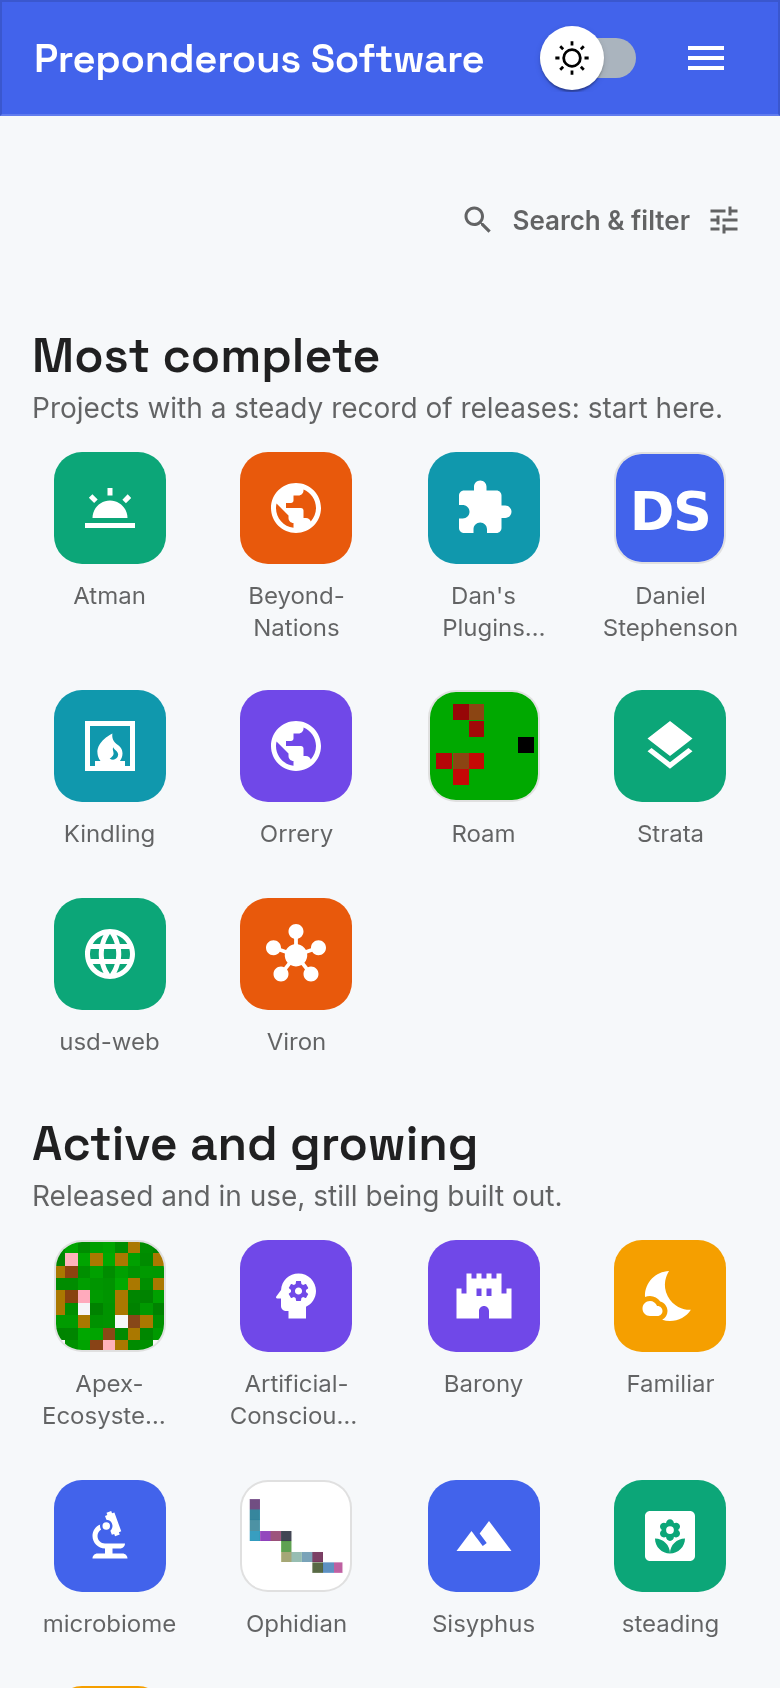
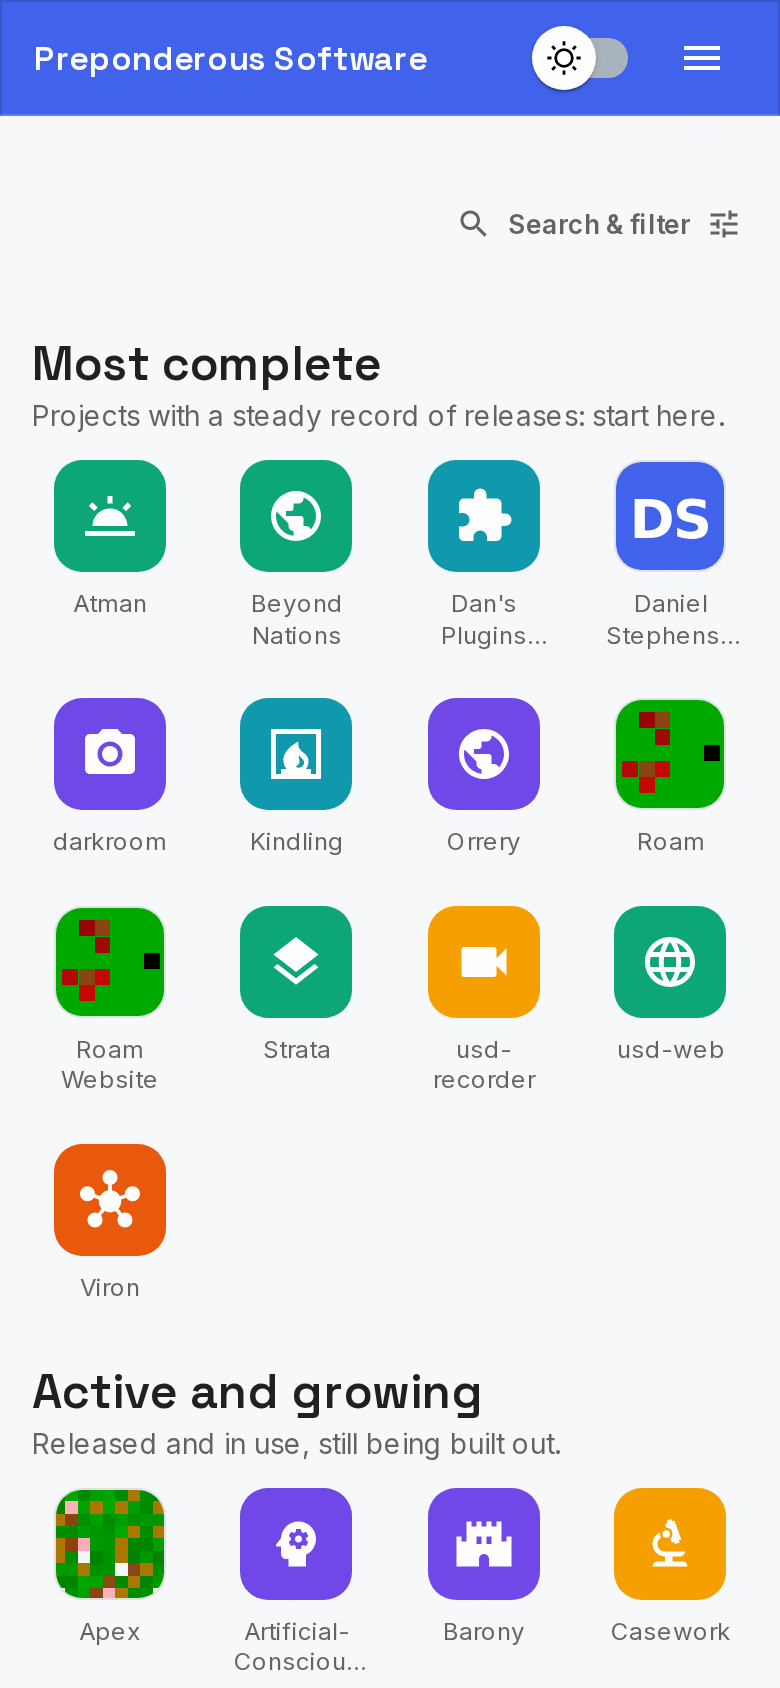
docs: a screenshot tour of the site in the README and USER_GUIDE (#218)
The README gains "A tour of the site": home, a project's details with
its 3D preview, /projects, /usage, /about and the 404 page, each in
light and dark mode, with phone shots beside the desktop ones and a
short caption under each. USER_GUIDE.md gets a screenshot next to each
feature it describes (details panel and bottom sheet, search and
filters, project cards, the usage line and /usage, the phone drawer,
the colour-mode toggle, /contact). The two existing home images are
refreshed for the current catalogue of 44 projects.

All shots were taken with headless Chromium from a local production
build of main, at 1280x800 (1x) and 390x844 (2x), and quantised to
256 colours; the largest is 158 KB. trace's public endpoints were not
answering at capture time, so the usage figures come from a local stub
(TRACE_PUBLIC_URL), and every caption showing them says they are
sample figures. CONFIG.md now notes that a preview's clip is optional,
as six of the thirteen previews are stills only.

drafted by Claude on behalf of Daniel Stephenson

Claude-Session: https://claude.ai/code/session_01LYNeun4MTdQwEKgQzkS6Dd

diff --git a/README.md b/README.md
@@ -5,12 +5,93 @@
 The Preponderous Software website is a [Next.js](https://nextjs.org/) web application that serves as the public face of Preponderous Software. It showcases the projects — free, source-available games, simulations, libraries, tools, and websites — and links out to their source on GitHub. Built with React and [Material UI](https://mui.com/), it mirrors the structure of the [Dan's Plugins Community website](https://github.com/Dans-Plugins/dansplugins-dot-com).
 
 <p align="center">
-  <img src="docs/images/home-desktop.png" alt="The preponderous.org home page: the project icons in three tiers, Most complete (Atman, Beyond Nations, Roam, Strata and more), Active and growing, and Small projects &amp; early work" width="640">
+  <img src="docs/images/home-desktop.png" alt="The preponderous.org home page: the project icons in three tiers, Most complete, Active and growing, and Small projects &amp; early work" width="640">
   <img src="docs/images/home-mobile.png" alt="The same tiers at phone width, four icons per row" width="160">
 </p>
-<p align="center"><em>The live site at <a href="https://preponderous.org">preponderous.org</a>, desktop and phone width.</em></p>
+<p align="center"><em>The home page at desktop and phone width. More in <a href="#a-tour-of-the-site">A tour of the site</a> below.</em></p>
 
-<sub>How these were captured: headless Chromium against a production build of the site on 2026-10-29, at 1280×800 and at 390×844 (2× pixel density).</sub>
+## A tour of the site
+
+Every picture here is a real page from a production build of this repository (`npm run build` then `next start`), captured with headless Chromium. Desktop shots are 1280×800 at 1× pixel density. Phone shots are 390×844 at 2×. Light and dark mode follow the visitor's system setting until they pick one with the toggle.
+
+### Home: every project as an icon
+
+<table>
+  <tr>
+    <td width="50%"><img src="docs/images/home-desktop.png" alt="The home page in light mode: Most complete, Active and growing, and Small projects &amp; early work, one icon per project"></td>
+    <td width="50%"><img src="docs/images/home-desktop-dark.png" alt="The same home page in dark mode"></td>
+  </tr>
+  <tr>
+    <td colspan="2"><em>Projects are grouped by how far along they are, most complete first. Search &amp; filter, top right, folds out a search box and category, technology and status chips.</em></td>
+  </tr>
+</table>
+
+<p align="center">
+  <img src="docs/images/home-mobile.png" alt="The home page on a phone in light mode" width="195">
+  <img src="docs/images/home-mobile-dark.png" alt="The home page on a phone in dark mode" width="195">
+</p>
+<p align="center"><em>On a phone, the top bar's links fold into a menu and the grid drops to four icons per row.</em></p>
+
+### A project's details, with its 3D preview
+
+<table>
+  <tr>
+    <td width="50%"><img src="docs/images/details-desktop.png" alt="Pointing at Ophidian opens a panel with a 3D clip of the game, a credit for the tool that drew it, and a link to play it in 3D"></td>
+    <td width="50%"><img src="docs/images/details-desktop-dark.png" alt="The same details panel in dark mode"></td>
+  </tr>
+  <tr>
+    <td colspan="2"><em>Pointing at an icon, or moving to it with the keyboard, opens its details. Projects with a <code>preview</code> show a muted, looping 3D clip with a pause button, or only the still for visitors who ask for reduced motion. (The usage line in these panels uses the sample figures described under /usage below.)</em></td>
+  </tr>
+</table>
+
+<p align="center">
+  <img src="docs/images/details-mobile-dark.png" alt="On a phone, tapping Ophidian opens its details in a bottom sheet with the clip, description, chips and GitHub button" width="240">
+</p>
+<p align="center"><em>On a touch screen, a tap opens the same details in a bottom sheet.</em></p>
+
+### /projects: the same projects as cards, by category
+
+<table>
+  <tr>
+    <td width="40%"><img src="docs/images/projects-desktop.png" alt="The projects page in light mode: category links under the title, then project cards in a grid"></td>
+    <td width="40%"><img src="docs/images/projects-desktop-dark.png" alt="The projects page in dark mode"></td>
+    <td width="20%"><img src="docs/images/projects-mobile.png" alt="The projects page on a phone: one card per row"></td>
+  </tr>
+  <tr>
+    <td colspan="3"><em>Each category is its own section, and the links under the title jump straight to one. Every card has a GitHub button, plus Visit Site where the project is hosted.</em></td>
+  </tr>
+</table>
+
+### /usage: how much the projects are used
+
+<table>
+  <tr>
+    <td width="40%"><img src="docs/images/usage-desktop.png" alt="The usage page: each reporting project with when it was last used, its starts in the last 30 days and a 30-day sparkline"></td>
+    <td width="40%"><img src="docs/images/usage-desktop-dark.png" alt="The usage page in dark mode"></td>
+    <td width="20%"><img src="docs/images/usage-mobile.png" alt="The usage page on a phone"></td>
+  </tr>
+  <tr>
+    <td colspan="3"><em>Starts per project over 30 days, read server side from <a href="https://trace.danielstephenson.dev">trace</a>. <strong>These shots use made-up sample figures</strong> from a local stub (<code>TRACE_PUBLIC_URL</code>, see <a href="CONFIG.md">CONFIG.md</a>), so the numbers are not real usage. When trace can't be reached, the page says the figures are unavailable.</em></td>
+  </tr>
+</table>
+
+### /about and the 404 page
+
+<table>
+  <tr>
+    <td width="50%"><img src="docs/images/about-desktop.png" alt="The about page in light mode: mission, values and who runs Preponderous Software"></td>
+    <td width="50%"><img src="docs/images/about-desktop-dark.png" alt="The about page in dark mode"></td>
+  </tr>
+  <tr>
+    <td width="50%"><img src="docs/images/not-found-desktop.png" alt="The 404 page in light mode, with links back to the home and projects pages"></td>
+    <td width="50%"><img src="docs/images/not-found-desktop-dark.png" alt="The 404 page in dark mode"></td>
+  </tr>
+  <tr>
+    <td colspan="2"><em>/about covers the mission, values and who runs Preponderous Software. A broken link lands on the shared error page, which is kept out of search results.</em></td>
+  </tr>
+</table>
+
+<sub>How these were captured: headless Chromium (Playwright) against <code>next start</code> on a local production build of <code>main</code> on 2026-11-24. The usage figures in the /usage and details shots come from a local trace stub, as noted above, because trace's public endpoints were not answering at capture time.</sub>
 
 ## Installation
 

diff --git a/USER_GUIDE.md b/USER_GUIDE.md
@@ -12,6 +12,8 @@ No special software is required to use the website — just a modern web browser
 2. The home page opens with every project Preponderous Software develops shown as an icon — games, simulations, libraries, tools, and websites.
 3. Point at (or tap) an icon to see what the project is, then read the introduction below the grid.
 
+<p align="center"><img src="docs/images/home-desktop.png" alt="The home page: project icons in three tiers under the top navigation bar" width="640"></p>
+
 ## Common Scenarios
 
 ### Browsing the Projects
@@ -19,6 +21,12 @@ No special software is required to use the website — just a modern web browser
 1. Open the home page. The **Projects** grid at the top shows one icon per project, captioned with its name. The icons are grouped under three headings, most complete first: **Most complete**, **Active and growing**, and **Small projects & early work**; within each group they are in alphabetical order.
 2. Point at an icon, or move to it with the keyboard, to open a small panel with the project's details. On a touch screen, tap the icon instead: the details open in a sheet at the bottom of the screen, which closes from its close button or by tapping outside it.
 3. The details show the project's name, a short description, its primary technology, and — where set — a maintenance status (e.g. **Active**, **Maintenance**), along with a **GitHub** button and — for projects with a live version — a **Visit Site** button. Projects that report their usage also show a line such as "Last used 3 days ago" (see [Seeing How Much a Project Is Used](#seeing-how-much-a-project-is-used)).
+
+<p align="center">
+  <img src="docs/images/details-desktop.png" alt="Pointing at Ophidian on the home page opens a panel with a 3D clip of the game, its credit line and a Play it in 3D link" width="560">
+  <img src="docs/images/details-mobile-dark.png" alt="On a phone in dark mode, the same details open in a bottom sheet with a close button" width="180">
+</p>
+<p align="center"><em>A project's details: a hover panel on a desktop, a bottom sheet on a phone. Projects with a 3D preview show a muted looping clip with a pause button. If your system is set to reduce motion, only the still is shown. The usage line here shows made-up sample figures.</em></p>
 
 ### Searching and Filtering the Projects
 
@@ -28,12 +36,16 @@ No special software is required to use the website — just a modern web browser
 4. Choose **A–Z** (the default) or **By category** to change the order of the icons within each group.
 5. While anything is filtered, the grid says how many of all the projects are shown ("Showing *N* of *M* projects"). If nothing matches, click **Clear filters** to get every project back.
 
+<p align="center"><img src="docs/images/search-desktop.png" alt="Search &amp; filter opened above the grid, with &quot;sim&quot; typed in the search box, the category, technology and status chips, and &quot;Showing 13 of 44 projects&quot;" width="640"></p>
+
 ### Browsing Projects by Category
 
 1. Click **Projects** in the top navigation bar, or **Browse Projects** in the introduction below the home page's grid.
 2. The **/projects** page lists the same projects as cards, grouped under category headings (e.g. **Games**, **Simulations**, **Libraries**).
 3. The links under the page title name every category and how many projects it holds (e.g. **Games (*N*)**); click one to jump straight to it.
 4. Each card shows the same details, **GitHub**/**Visit Site** buttons, and status chip as the home page.
+
+<p align="center"><img src="docs/images/project-cards.png" alt="Project cards on /projects, each with an icon, title, description, technology and status chips, and GitHub and Visit Site buttons" width="640"></p>
 
 ### Opening a Project's Source Code
 
@@ -62,15 +74,29 @@ Many of the games, simulations and tools report when they start to [trace](https
 
 A start is not a person: one player launching a game every evening counts thirty times. If trace can't be reached, the usage lines are simply left out and **/usage** says the figures are unavailable.
 
+<p align="center">
+  <img src="docs/images/usage-line.png" alt="Roam's details with its usage line: Last used 1 day ago, launches in the last 30 days, reported by trace, and an About these figures link" width="300">
+  <img src="docs/images/usage-desktop.png" alt="The /usage page listing each reporting project with when it was last used, its starts in the last 30 days and a 30-day sparkline" width="460">
+</p>
+<p align="center"><em>The usage line in a project's details, and the <strong>/usage</strong> page with a 30-day sparkline per project. These screenshots use made-up sample figures, not real usage.</em></p>
+
 ### Navigating on a Phone
 
 On a narrow screen the top navigation bar's links are folded behind a menu button. Tap it to open a drawer with **Home**, **Projects**, **About**, **Contact**, and **GitHub**.
+
+<p align="center"><img src="docs/images/nav-drawer-mobile.png" alt="The navigation drawer open on a phone, listing Home, Projects, About, Contact and GitHub" width="220"></p>
 
 ### Switching Between Light and Dark Mode
 
 1. Use the sun/moon toggle in the top (or bottom) navigation bar.
 2. Your choice is remembered for future visits. If you've never chosen, the site follows your operating system's light/dark preference.
 3. If your browser is set to block site data, the toggle still switches the mode for as long as you're on the page — the choice simply isn't remembered.
+
+<p align="center">
+  <img src="docs/images/topbar.png" alt="The top navigation bar in light mode, with the sun toggle at the right" width="640"><br>
+  <img src="docs/images/topbar-dark.png" alt="The top navigation bar in dark mode, with the moon toggle at the right" width="640">
+</p>
+<p align="center"><em>The sun/moon toggle at the right of the top bar, in light and dark mode.</em></p>
 
 ### Reducing Motion
 
@@ -96,6 +122,8 @@ If you find a bug on the website itself:
 3. Describe the problem and include steps to reproduce it.
 
 You can also use the **Report a Bug** link in the footer, or visit the **/contact** page (reachable via **Contact** in the top navigation bar) for the same link plus where to go for project-specific questions. The footer's **Source Code** link opens the website's own repository in a new tab.
+
+<p align="center"><img src="docs/images/contact-desktop.png" alt="The /contact page, with a link for reporting a website bug and where to go for questions about a specific project" width="640"></p>
 
 ### Finding More by Daniel Stephenson
 

diff --git a/CONFIG.md b/CONFIG.md
@@ -51,7 +51,7 @@ The file contains a single `projects` array. Each entry supports these fields:
 | `status` | no | Maintenance state shown as a colour-coded chip on the card (e.g. `Active`, `Maintenance`). Any other value renders as a plain outlined chip. Omit it to show no status chip. |
 | `icon` | no | Path under `public/` to the project's own artwork (e.g. `/icons/roam.png`), shown as its icon on the home grid and on its `/projects` card. Takes precedence over `glyph`. |
 | `glyph` | no | Name of a Material icon (e.g. `Castle`, `Terminal`) drawn on the project's title colour when it has no `icon`. Only the names mapped in `PROJECT_GLYPHS` in `utils/projectGlyphs.ts` are available; add a new one there first. A project with neither field, or with a name missing from that map, shows its initial instead (see `components/ProjectIcon.tsx`). |
-| `preview` | no | A 3D preview at the top of the project's details on the home grid (hover panel and phone bottom sheet alike): `{"poster": "/previews/<id>/poster.jpg", "clip": {"webm": "/previews/<id>/clip.webm", "mp4": "/previews/<id>/clip.mp4"}, "alt": "what it shows", "madeWith": {"name": "replay-player", "url": "https://github.com/..."}, "more": "https://...", "moreLabel": "Play the replay in 3D"}`. The 16:10 still loads only when the details open; the muted looping clip plays in its place unless the visitor asks for reduced motion, with a pause button. `madeWith` credits the tool that drew it; `more` is an optional further link. Files live in `public/previews/<id>/` with a `PROVENANCE.json` (source repo, commit, tool, commands); `__tests__/ProjectPreview.test.tsx` holds them to 16:10, poster ≤ 100 KB, WebM ≤ 320 KB, MP4 ≤ 420 KB. |
+| `preview` | no | A 3D preview at the top of the project's details on the home grid (hover panel and phone bottom sheet alike): `{"poster": "/previews/<id>/poster.jpg", "clip": {"webm": "/previews/<id>/clip.webm", "mp4": "/previews/<id>/clip.mp4"}, "alt": "what it shows", "madeWith": {"name": "replay-player", "url": "https://github.com/..."}, "more": "https://...", "moreLabel": "Play the replay in 3D"}`. The 16:10 still loads only when the details open; the muted looping clip plays in its place unless the visitor asks for reduced motion, with a pause button. `clip` is optional: a preview with only a `poster` shows the still alone, with no pause button. `madeWith` credits the tool that drew it; `more` is an optional further link. Files live in `public/previews/<id>/` with a `PROVENANCE.json` (source repo, commit, tool, commands); `__tests__/ProjectPreview.test.tsx` holds them to 16:10, poster ≤ 100 KB, WebM ≤ 320 KB, MP4 ≤ 420 KB. |
 | `tier` | no | The home-page tier the project is listed under: `complete` (*Most complete*), `growing` (*Active and growing*) or `small` (*Small projects & early work*). When set, it wins over the derived tier; the games carry the tier they have on [danielstephenson.dev/play](https://danielstephenson.dev/play). Without it, the tier is derived from `status` and the project's entry in `pages/data/releases.json`: `Maintenance` or no releases is `small`, otherwise 3 or more releases is `complete` and fewer is `growing` (see `utils/projectTiers.ts`). |
 
 Entries may be listed in any order. The home page shows every project as an icon, grouped into tiers (most complete first; see `tier` above) and sorted alphabetically by title within each tier by default, with search, filter chips (category, technology and status), and an optional *By category* sort (see `projectFacets` and `projectSortOptions` in `utils/projects.ts`). Search, filters and sort span every tier; a sort orders projects within each tier. A `technology` value such as `TypeScript / Next.js` is split on ` / `, so each part is its own filter chip. `/projects` groups the same data by `category`, each category's projects sorted alphabetically within it.
